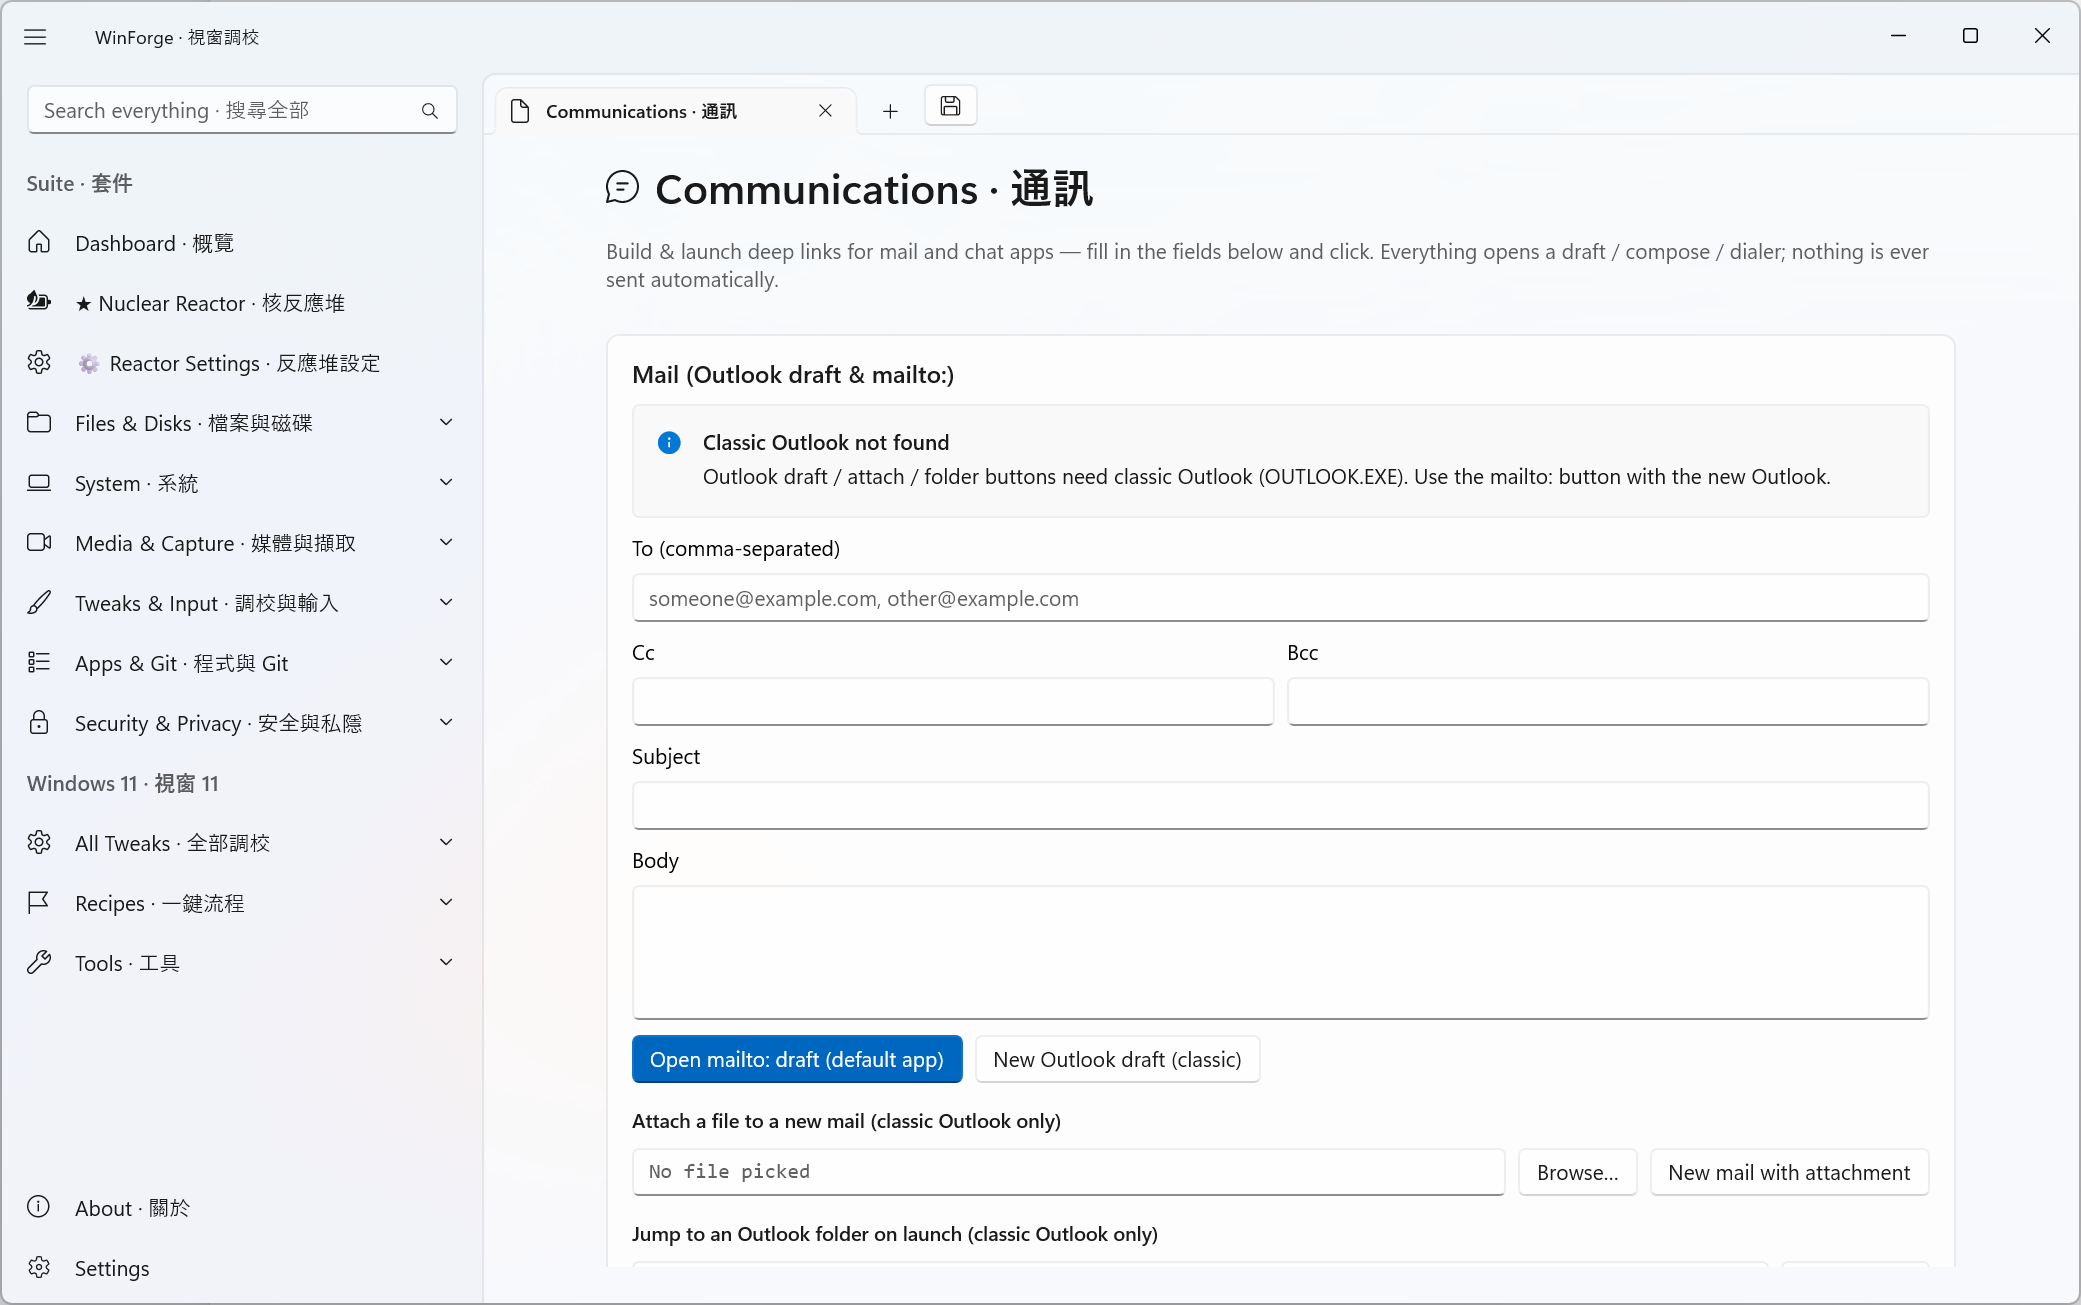
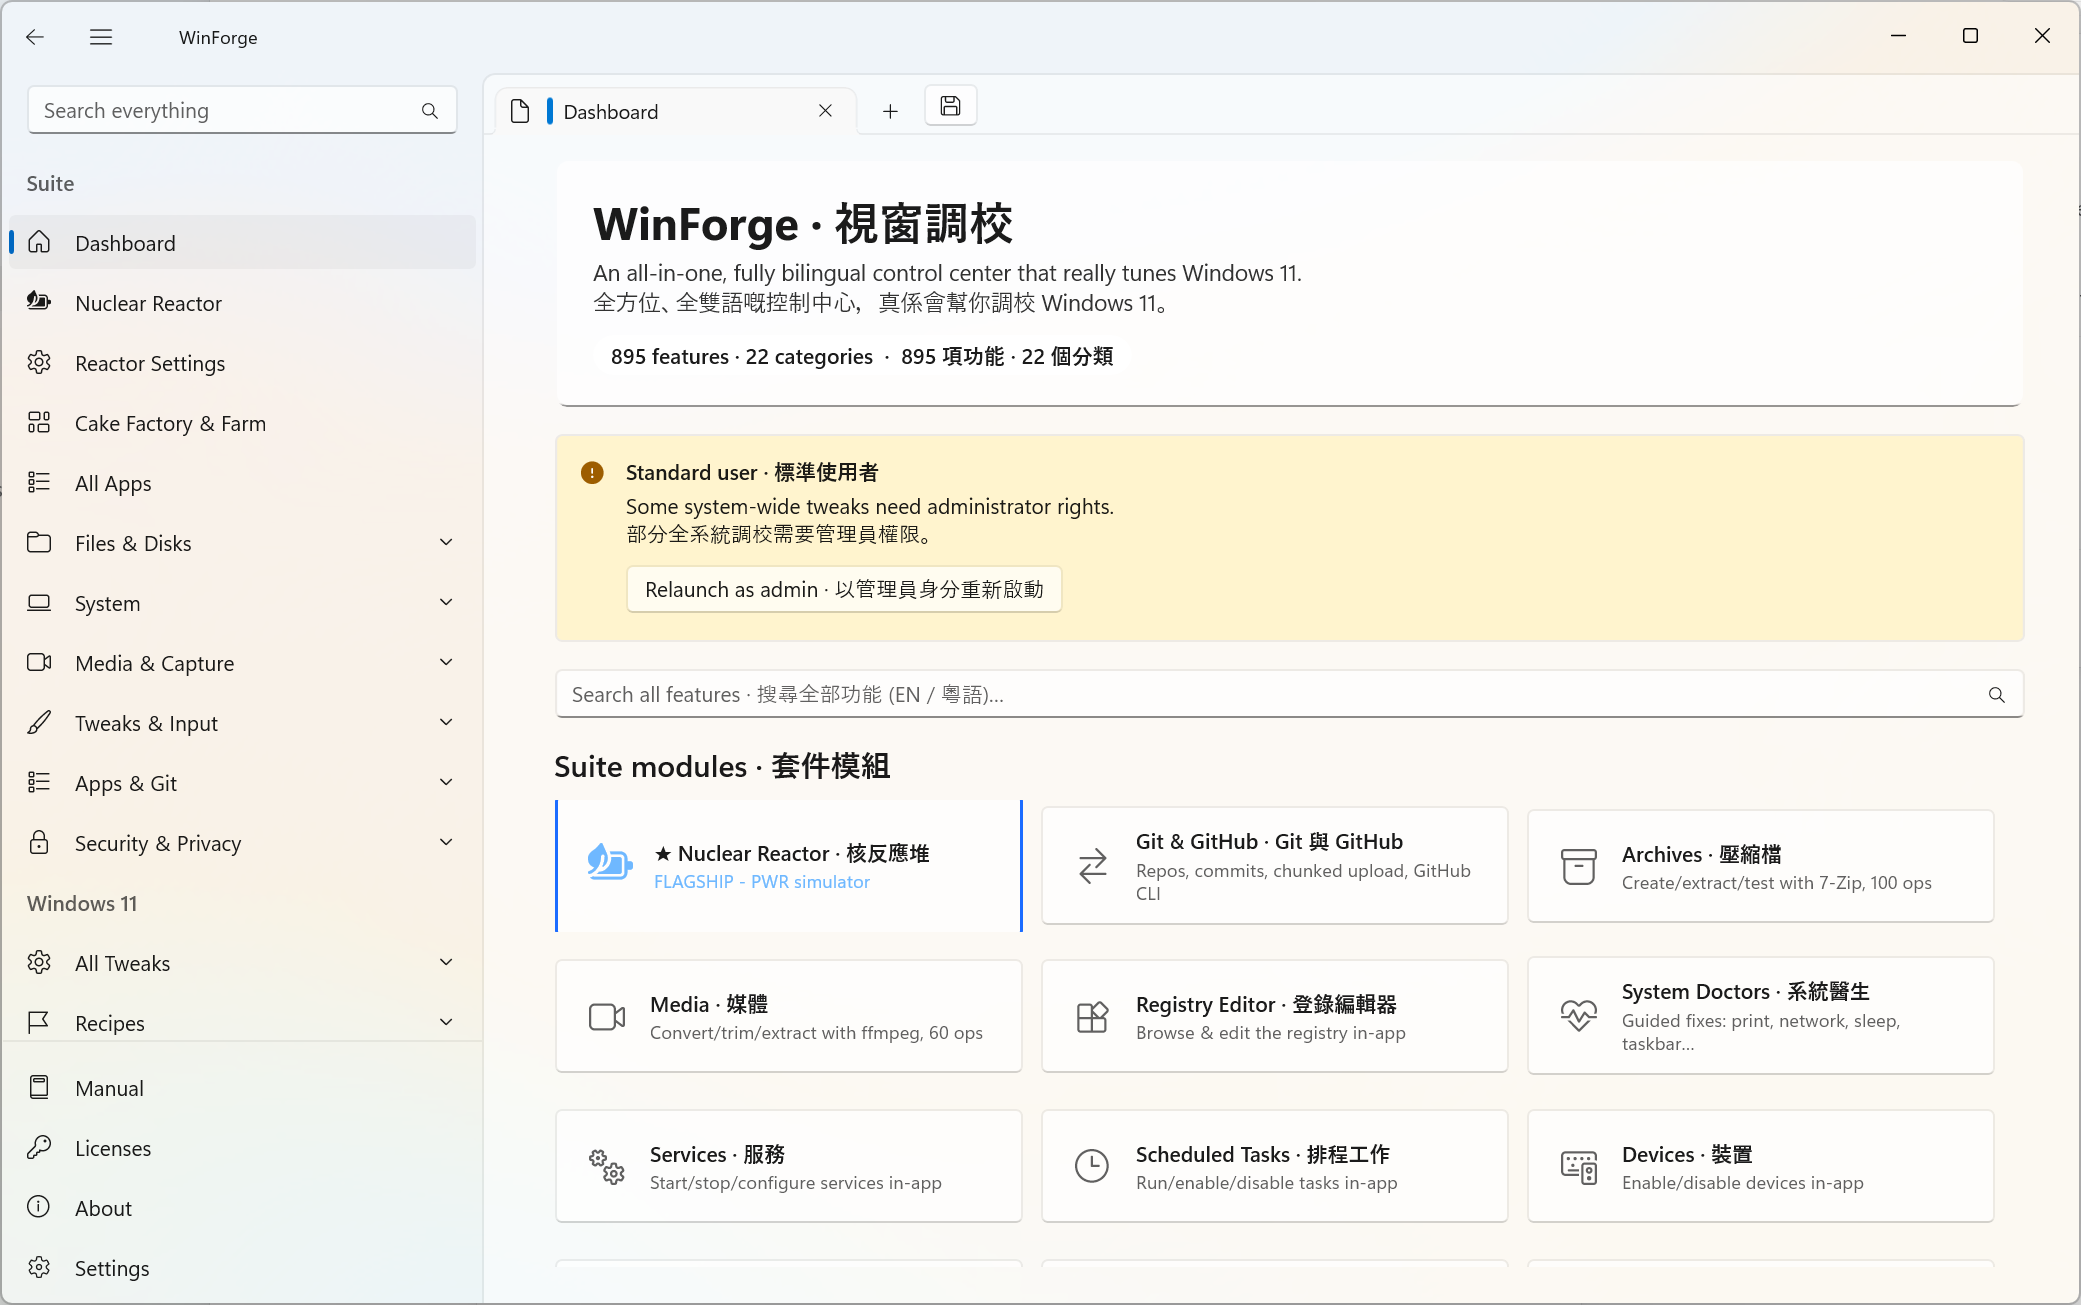
Add actionable shell app search · 加入可操作外殼 app 搜尋

diff --git a/MainWindow.xaml b/MainWindow.xaml
@@ -45,6 +45,7 @@
                     x:Name="SearchBox"
                     QueryIcon="Find"
                     PlaceholderText="Search everything · 搜尋全部"
+                    TextMemberPath="Title"
                     QuerySubmitted="SearchBox_QuerySubmitted"
                     TextChanged="SearchBox_TextChanged"
                     automation:AutomationProperties.Name="Search all WinForge modules · 搜尋全部 WinForge 模組" />
@@ -62,6 +63,9 @@
                 </NavigationViewItem>
                 <NavigationViewItem Content="Cake Factory &amp; Farm · 蛋糕工廠與農場" Tag="module.cakefactory">
                     <NavigationViewItem.Icon><FontIcon Glyph="&#xECA5;" /></NavigationViewItem.Icon>
+                </NavigationViewItem>
+                <NavigationViewItem Content="All Apps · 所有 app" Tag="shell.allapps">
+                    <NavigationViewItem.Icon><FontIcon Glyph="&#xE71D;" /></NavigationViewItem.Icon>
                 </NavigationViewItem>
 
                 <NavigationViewItem Content="Files &amp; Disks · 檔案與磁碟" SelectsOnInvoked="False">

diff --git a/MainWindow.xaml.cs b/MainWindow.xaml.cs
@@ -23,6 +23,7 @@ namespace WinForge;
 public sealed partial class MainWindow : Window
 {
     private readonly Dictionary<object, (string en, string zh)> _navOriginalLabels = new();
+    private const string AllAppsPickerKey = "shell.allapps";
 
     public MainWindow()
     {
@@ -1368,14 +1369,20 @@ public sealed partial class MainWindow : Window
         if (args.Reason != AutoSuggestionBoxTextChangeReason.UserInput) return;
         var q = sender.Text ?? "";
         if (q.Trim().Length == 0) { sender.ItemsSource = null; return; }
-        var sugg = ModuleRegistry.Search(q).Select(m => Loc.I.Pick(m.En, m.Zh))
-            .Concat(TweakCatalog.Search(q).Take(6).Select(t => t.Title.Display))
-            .Take(10).ToList();
-        sender.ItemsSource = sugg;
+        var suggestions = ShellSearchSuggestions(q).Take(10).ToList();
+        sender.ItemsSource = suggestions.Count == 0 ? null : suggestions;
     }
 
     private void SearchBox_QuerySubmitted(AutoSuggestBox sender, AutoSuggestBoxQuerySubmittedEventArgs args)
     {
+        if (args.ChosenSuggestion is ShellSearchSuggestion suggestion)
+        {
+            OpenShellSearchSuggestion(suggestion);
+            sender.Text = string.Empty;
+            sender.ItemsSource = null;
+            return;
+        }
+
         var q = args.QueryText;
         if (!string.IsNullOrWhiteSpace(q)) NavigateActive("search:" + q);
     }
@@ -1390,11 +1397,20 @@ public sealed partial class MainWindow : Window
         if (ActiveFrame is { CanGoBack: true } f) { f.GoBack(); UpdateBackButton(); }
     }
 
-    private void NavView_SelectionChanged(NavigationView sender, NavigationViewSelectionChangedEventArgs args)
+    private async void NavView_SelectionChanged(NavigationView sender, NavigationViewSelectionChangedEventArgs args)
     {
         if (_syncingTabs) return;
         if (args.IsSettingsSelected) { NavigateActive("settings"); return; }
-        if (args.SelectedItem is NavigationViewItem item && item.Tag is string tag) NavigateActive(tag);
+        if (args.SelectedItem is NavigationViewItem item && item.Tag is string tag)
+        {
+            if (string.Equals(tag, AllAppsPickerKey, StringComparison.OrdinalIgnoreCase))
+            {
+                await OpenAllAppsPickerFromShellAsync();
+                return;
+            }
+
+            NavigateActive(tag);
+        }
     }
 
     // ===================== Browser-style tabs · 瀏覽器式分頁 =====================
@@ -1449,6 +1465,15 @@ public sealed partial class MainWindow : Window
         public string[] Keys { get; init; } = Array.Empty<string>();
 
         public string Title => Loc.I.Pick(En, Zh);
+    }
+
+    private sealed class ShellSearchSuggestion
+    {
+        public string Key { get; init; } = "";
+        public string Title { get; init; } = "";
+        public string Subtitle { get; init; } = "";
+
+        public override string ToString() => Title;
     }
 
     private const string RecentModulesKey = "shell.recentModules";
@@ -1686,6 +1711,12 @@ public sealed partial class MainWindow : Window
         }
     }
 
+    private async Task OpenAllAppsPickerFromShellAsync()
+    {
+        await ShowNewTabPickerAsync();
+        SyncNavSelectionToActiveTab();
+    }
+
     private void AddPickerSection(StackPanel target, string title, IEnumerable<NewTabEntry> entries, Action<string> open)
     {
         var list = entries
@@ -1855,6 +1886,71 @@ public sealed partial class MainWindow : Window
         }
 
         return "apps";
+    }
+
+    private IEnumerable<ShellSearchSuggestion> ShellSearchSuggestions(string query)
+    {
+        query = (query ?? string.Empty).Trim();
+        if (query.Length == 0) yield break;
+
+        if (MatchesText(Loc.I.Pick("All Apps", "所有 app"), query) || MatchesText("apps tools modules search picker", query))
+        {
+            yield return new ShellSearchSuggestion
+            {
+                Key = AllAppsPickerKey,
+                Title = Loc.I.Pick("All Apps · 所有 app", "所有 app · All Apps"),
+                Subtitle = Loc.I.Pick("Open the searchable app picker", "開啟可搜尋 app 選擇器"),
+            };
+        }
+
+        foreach (var module in ModuleRegistry.Search(query)
+                     .Where(m => m.Tag.StartsWith("module.", StringComparison.Ordinal))
+                     .Take(6))
+        {
+            yield return new ShellSearchSuggestion
+            {
+                Key = module.Tag,
+                Title = $"{module.En} · {module.Zh}",
+                Subtitle = Loc.I.Pick("Open module", "開啟模組"),
+            };
+        }
+
+        foreach (var category in Categories.All
+                     .Where(c => MatchesText($"{c.Name.En} {c.Name.Zh} {c.Id}", query))
+                     .Take(3))
+        {
+            yield return new ShellSearchSuggestion
+            {
+                Key = category.Id,
+                Title = category.Name.Display,
+                Subtitle = Loc.I.Pick("Open tweak category", "開啟調校分類"),
+            };
+        }
+    }
+
+    private void OpenShellSearchSuggestion(ShellSearchSuggestion suggestion)
+    {
+        if (string.Equals(suggestion.Key, AllAppsPickerKey, StringComparison.OrdinalIgnoreCase))
+        {
+            _ = OpenAllAppsPickerFromShellAsync();
+            return;
+        }
+
+        NavigateActive(suggestion.Key);
+    }
+
+    private static bool MatchesText(string text, string query)
+        => text.Contains(query, StringComparison.OrdinalIgnoreCase);
+
+    private void SyncNavSelectionToActiveTab()
+    {
+        var key = Tabs?.SelectedItem is TabViewItem tab ? BaseNavKey(DataOf(tab).Key) : "dashboard";
+        var item = FindByTag(key);
+        if (item is null) return;
+
+        _syncingTabs = true;
+        try { NavView.SelectedItem = item; }
+        finally { _syncingTabs = false; }
     }
 
     private void RememberAppUse(string key)

diff --git a/docs/wiki/Accessibility.md b/docs/wiki/Accessibility.md
@@ -6,6 +6,7 @@ WinForge follows a keyboard-first, screen-reader-aware baseline for the main she
 
 - Main navigation, global search, open module tabs and tab-session actions have explicit automation names. · 主要導航、全域搜尋、已開啟模組分頁同分頁工作階段動作都有明確 automation 名稱。
 - The new-tab picker exposes a named search box, category filter and named app-result buttons, so automation can open frequent apps, suggestions or category-filtered modules without relying on visual text only. · 新分頁選擇器提供具名搜尋框、分類篩選同具名 app 結果按鈕，所以自動化可以開啟常用 app、建議項目或者按分類篩選嘅模組，唔使只靠畫面文字。
+- Shell search suggestions now carry stable route keys, so choosing a module or tweak category opens it directly while plain text still falls back to the search-results page. · 外殼搜尋建議而家帶穩定路由 key，揀模組或者調校分類會直接開啟；直接輸入文字仍然會回落到搜尋結果頁。
 - New native pages expose heading levels for page title and major content regions. · 新原生頁面為頁面標題同主要內容區域提供標題層級。
 - The Feed Reader supports keyboard flow: `Enter` adds the typed feed URL, `F5` refreshes feeds, and `Ctrl+C` copies the selected article link. · RSS 閱讀器支援鍵盤流程：`Enter` 新增已輸入 feed 網址、`F5` 重新整理、`Ctrl+C` 複製已選文章連結。
 - Copy-link and busy states are reflected through enabled/disabled controls and named progress indicators. · 複製連結同忙碌狀態會透過啟用／停用控制項同具名進度指示器反映。